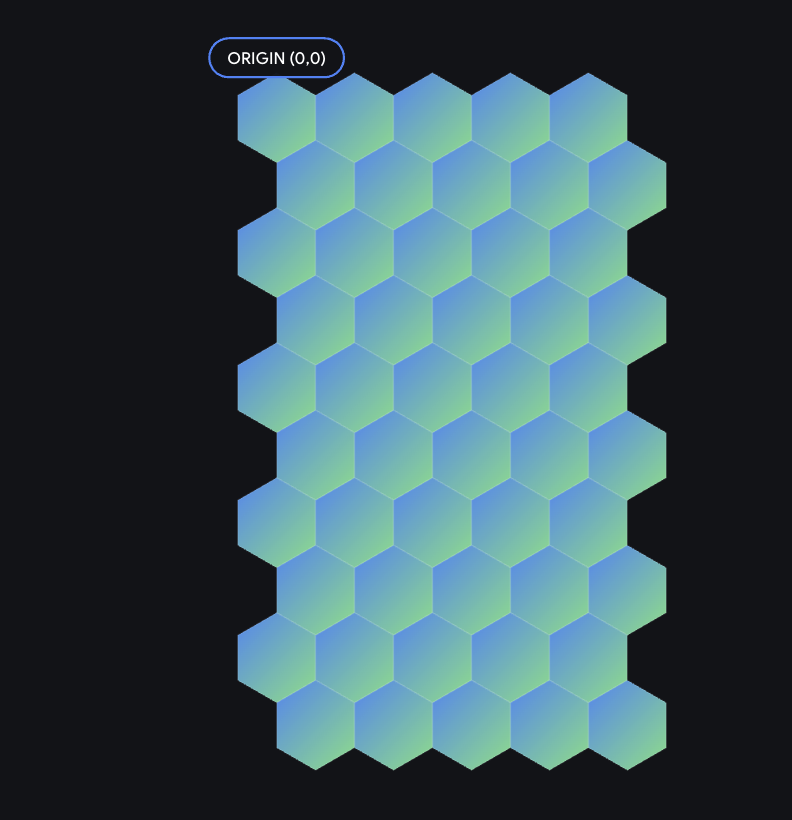
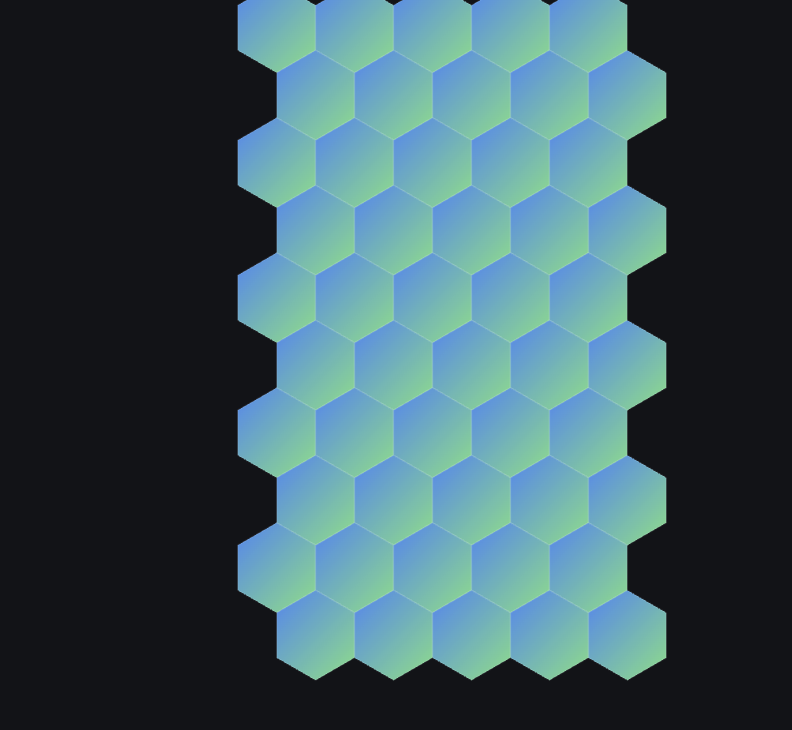
Phases: Trance dual-plane art, amber hex, layout polish
- Stare/Trance/Glimpse phase assets; dual-plane diamond + hex with ⅓ hex offset
- Amber hex via CLUT asset (phase-trance-hexagon-amber.png); drop tintColor flattening
- Trim hex PNG margins; full-width stack so diamond and hex widths align
- Trance column width / misc Phases UI tweaks from session

diff --git a/skelevigil-frontend/app/(main)/phases.tsx b/skelevigil-frontend/app/(main)/phases.tsx
@@ -107,7 +107,8 @@ function GlimpsePhasesPreview() {
 }
 
 const STARE_DIAMOND_ART = require('../../assets/phase-stare-diamond.png');
-const TRANCE_HEXAGON_ART = require('../../assets/phase-trance-hexagon.png');
+/** Luminance-mapped to amber (see assets); avoids RN tintColor flattening the hex grid. */
+const TRANCE_HEXAGON_ART = require('../../assets/phase-trance-hexagon-amber.png');
 
 /** Diamond lattice preview for The Stare (matches 5×10 diamond briefing). */
 function StarePhasePreview() {
@@ -121,14 +122,28 @@ function StarePhasePreview() {
   );
 }
 
-/** Honeycomb hex preview for The Trance (dual-plane briefing). */
+/**
+ * Dual-plane preview for The Trance: diamond plane (rear) + hex plane (front), hex shifted down
+ * by one-third of the tile so the top band shows the lower plane (Dual-Plato briefing).
+ */
 function TrancePhasePreview() {
   return (
     <View
       style={[styles.artFrame, styles.phasePreviewArtFrame]}
       accessibilityRole="image"
-      accessibilityLabel="Hexagon honeycomb pattern preview for The Trance phase">
-      <Image source={TRANCE_HEXAGON_ART} style={styles.phasePreviewArtImage} resizeMode="cover" />
+      accessibilityLabel="Dual-plane Trance preview: diamond layer with hex grid stacked and offset downward">
+      <View style={styles.tranceDualPlaneColumn}>
+        <Image
+          source={STARE_DIAMOND_ART}
+          style={styles.tranceDualPlaneLayer}
+          resizeMode="cover"
+        />
+        <Image
+          source={TRANCE_HEXAGON_ART}
+          style={[styles.tranceDualPlaneLayer, styles.tranceHexOverlay]}
+          resizeMode="cover"
+        />
+      </View>
     </View>
   );
 }
@@ -374,6 +389,26 @@ const styles = StyleSheet.create({
   phasePreviewArtImage: {
     width: ART_SIZE,
     height: ART_SIZE,
+  },
+  /** Full tile width: hex asset is margin-trimmed so honeycomb and diamond cover align under `cover`. */
+  tranceDualPlaneColumn: {
+    position: 'absolute',
+    top: 0,
+    left: 0,
+    width: ART_SIZE,
+    height: ART_SIZE,
+    overflow: 'hidden',
+  },
+  tranceDualPlaneLayer: {
+    position: 'absolute',
+    top: 0,
+    left: 0,
+    width: '100%',
+    height: ART_SIZE,
+  },
+  /** Hex plane shifted down by ⅓ tile height (clips at column edge). */
+  tranceHexOverlay: {
+    transform: [{ translateY: ART_SIZE / 3 }],
   },
   actionColumn: {
     flex: 1,
